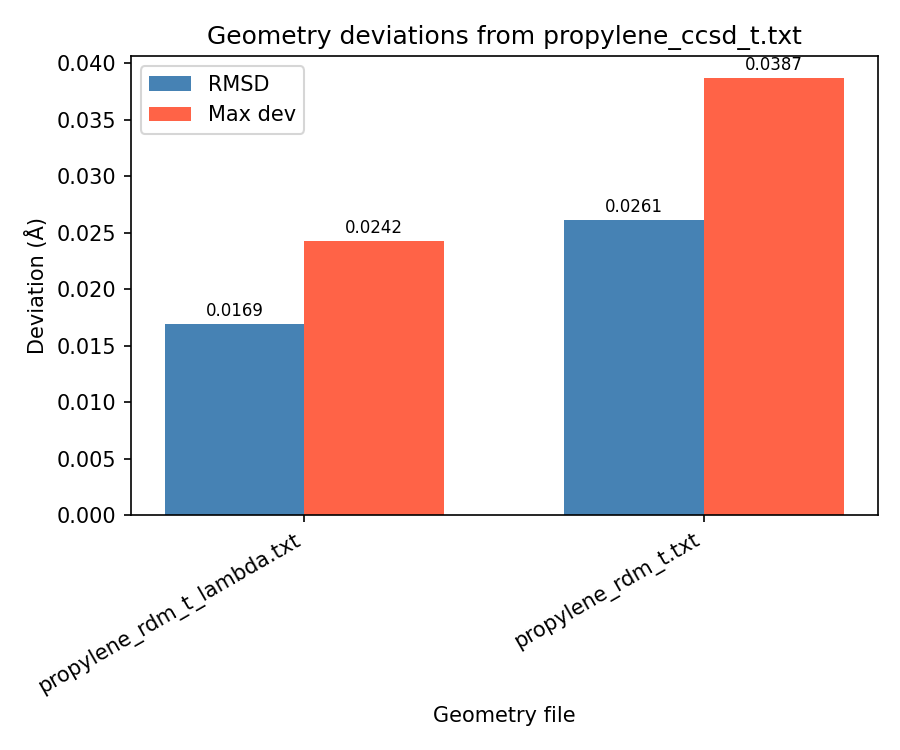
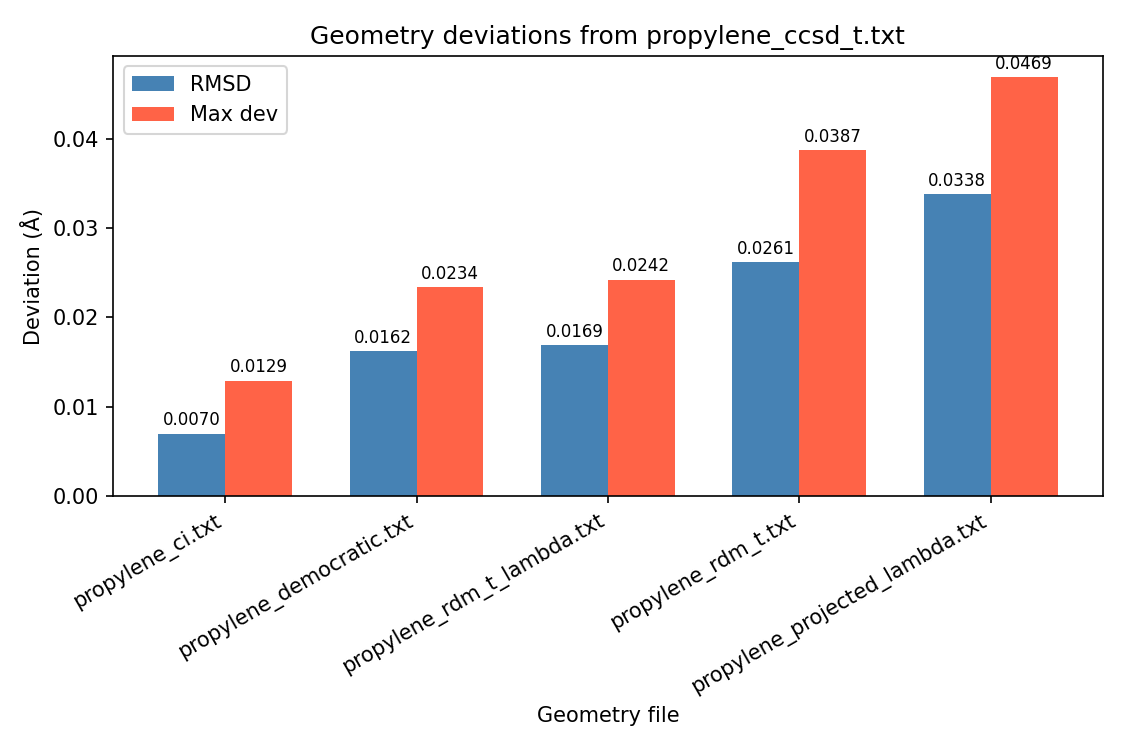
Compare all geometries against CCSD(t)

diff --git a/Geom_Comparison_Tool/geom_compare.py b/Geom_Comparison_Tool/geom_compare.py
@@ -146,8 +146,9 @@ def main():
         epilog="""
 Examples
 --------
-  python geom_compare.py propylene_ccsd_t.txt geom_mp2.xyz geom_dft.txt
-  python geom_compare.py ref.xyz *.txt
+  python geom_compare.py propylene_ccsd_t.txt propylene_rdm_t.txt propylene_rdm_t_lambda.txt
+  python geom_compare.py propylene_ccsd_t.txt propylene_ci.txt propylene_democratic.txt propylene_projected_lambda.txt
+  python geom_compare.py propylene_ccsd_t.txt propylene_*.txt
         """,
     )
     parser.add_argument(
